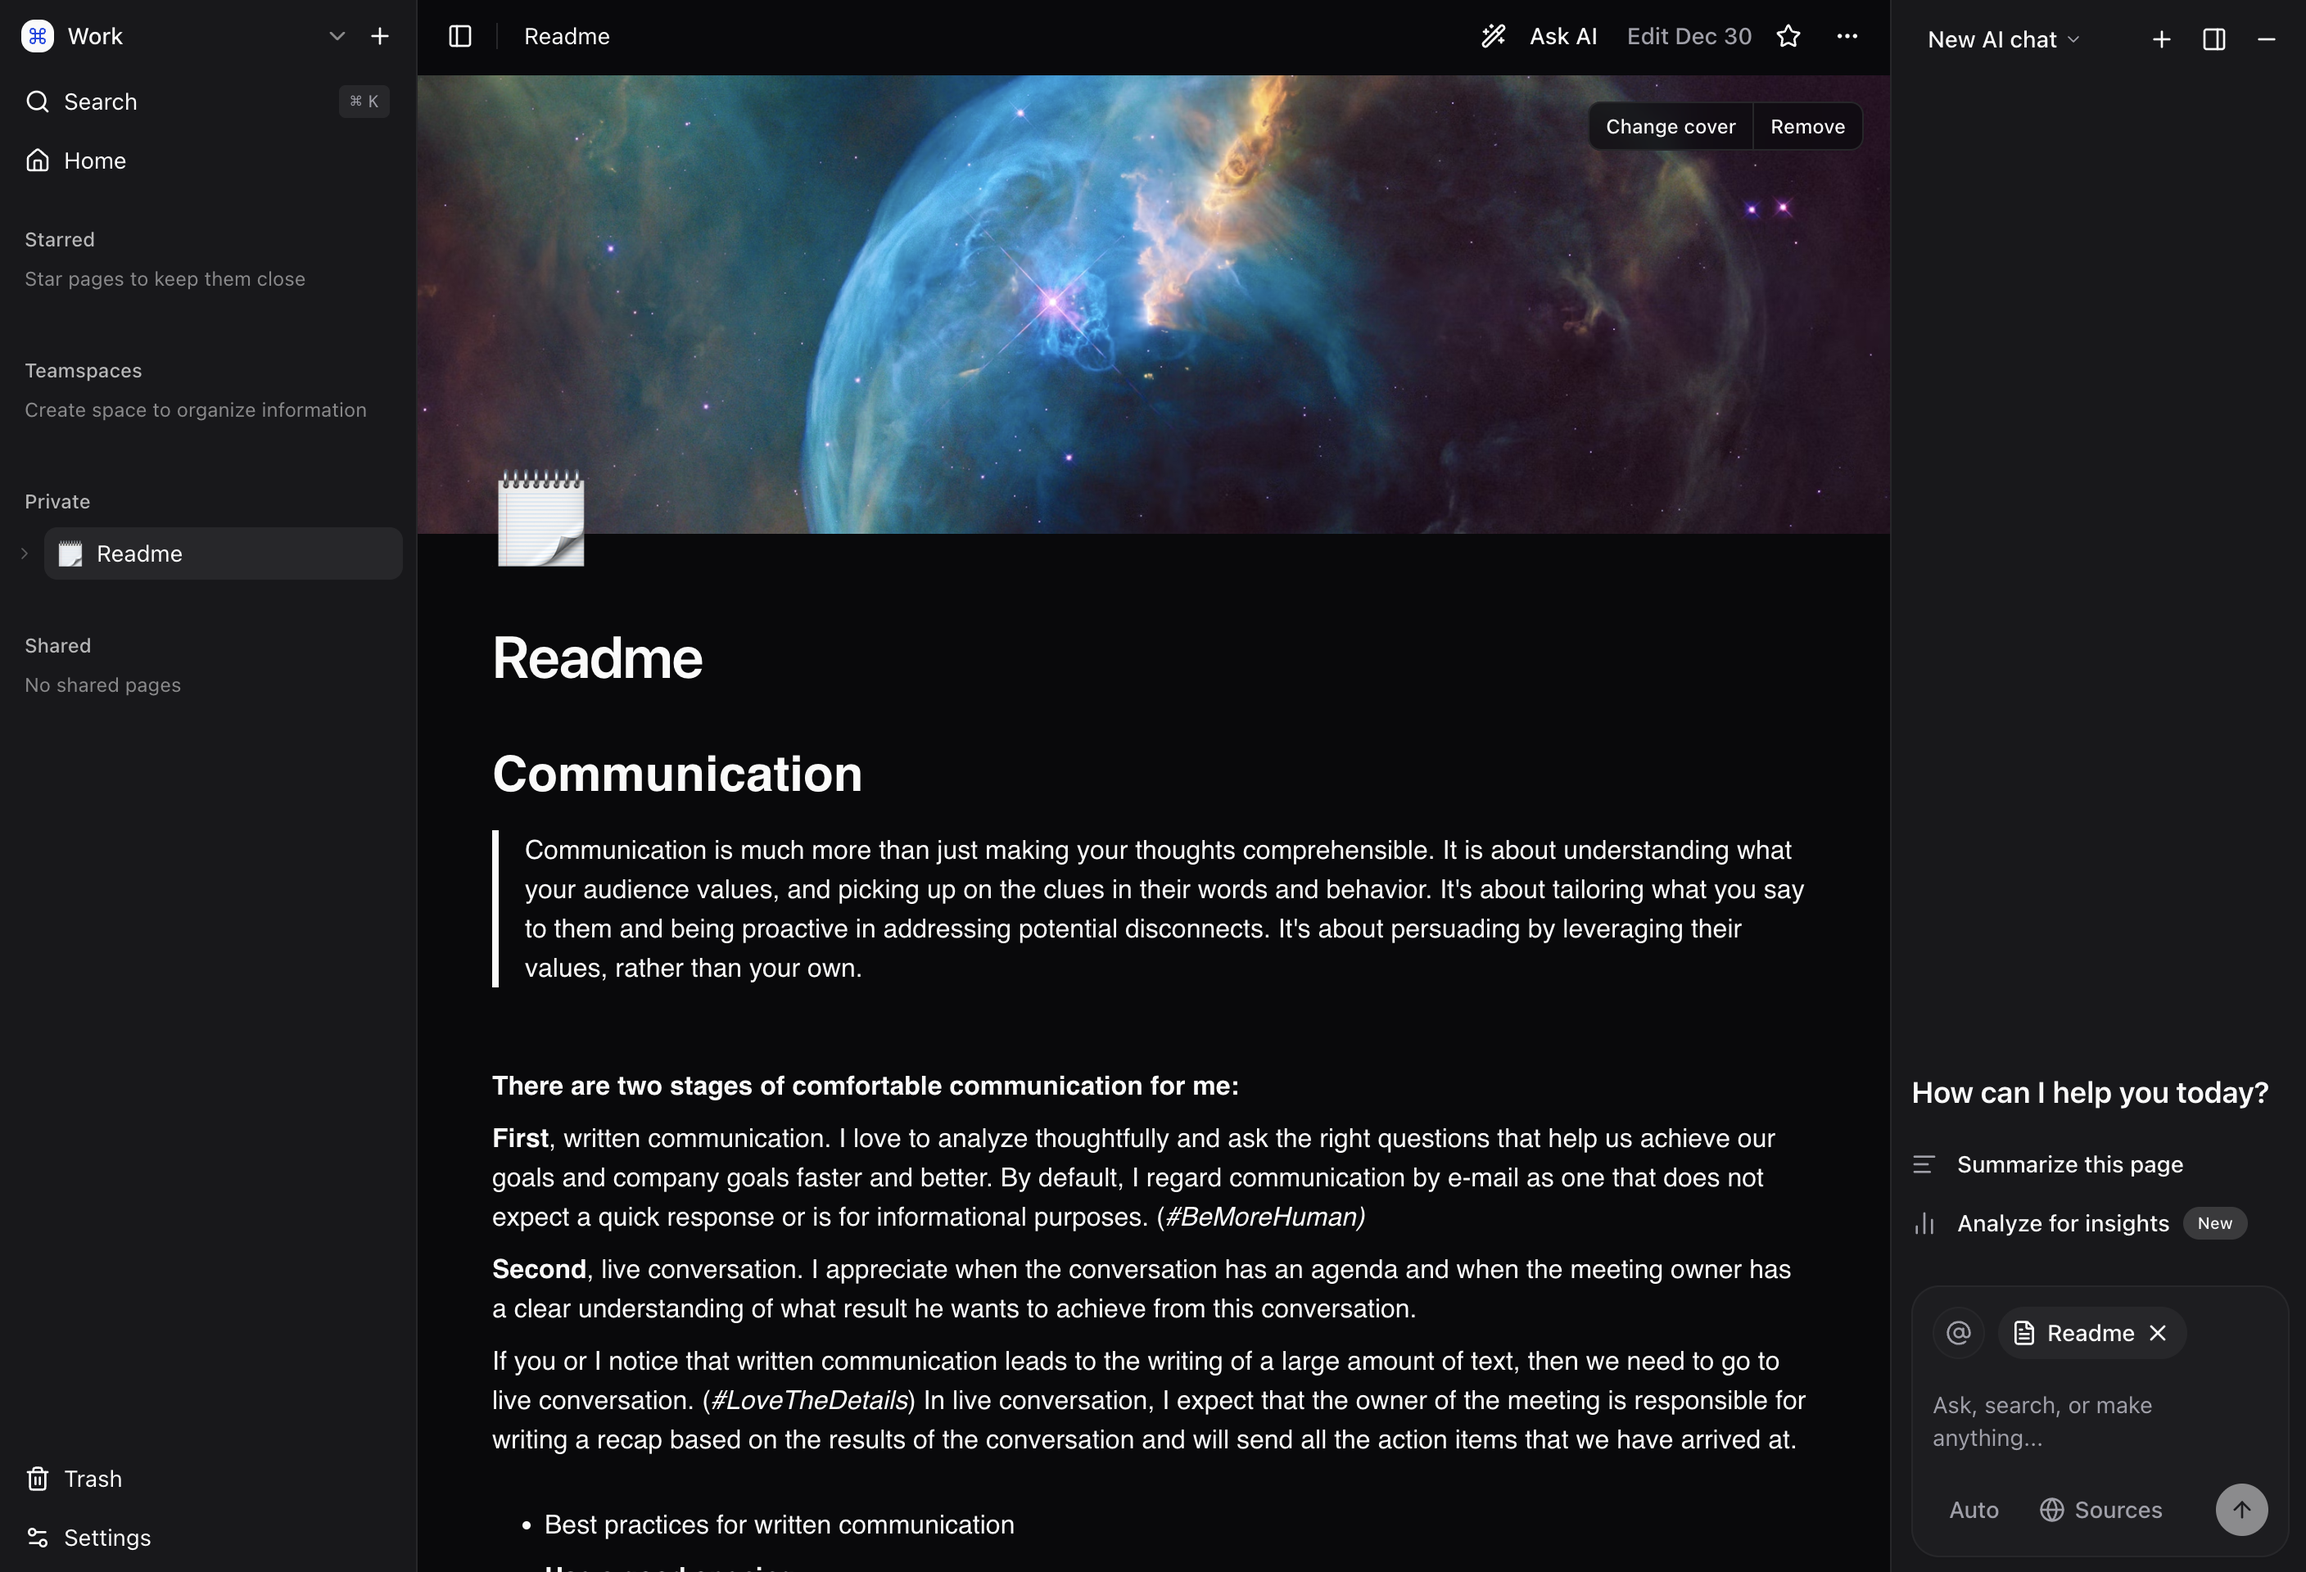
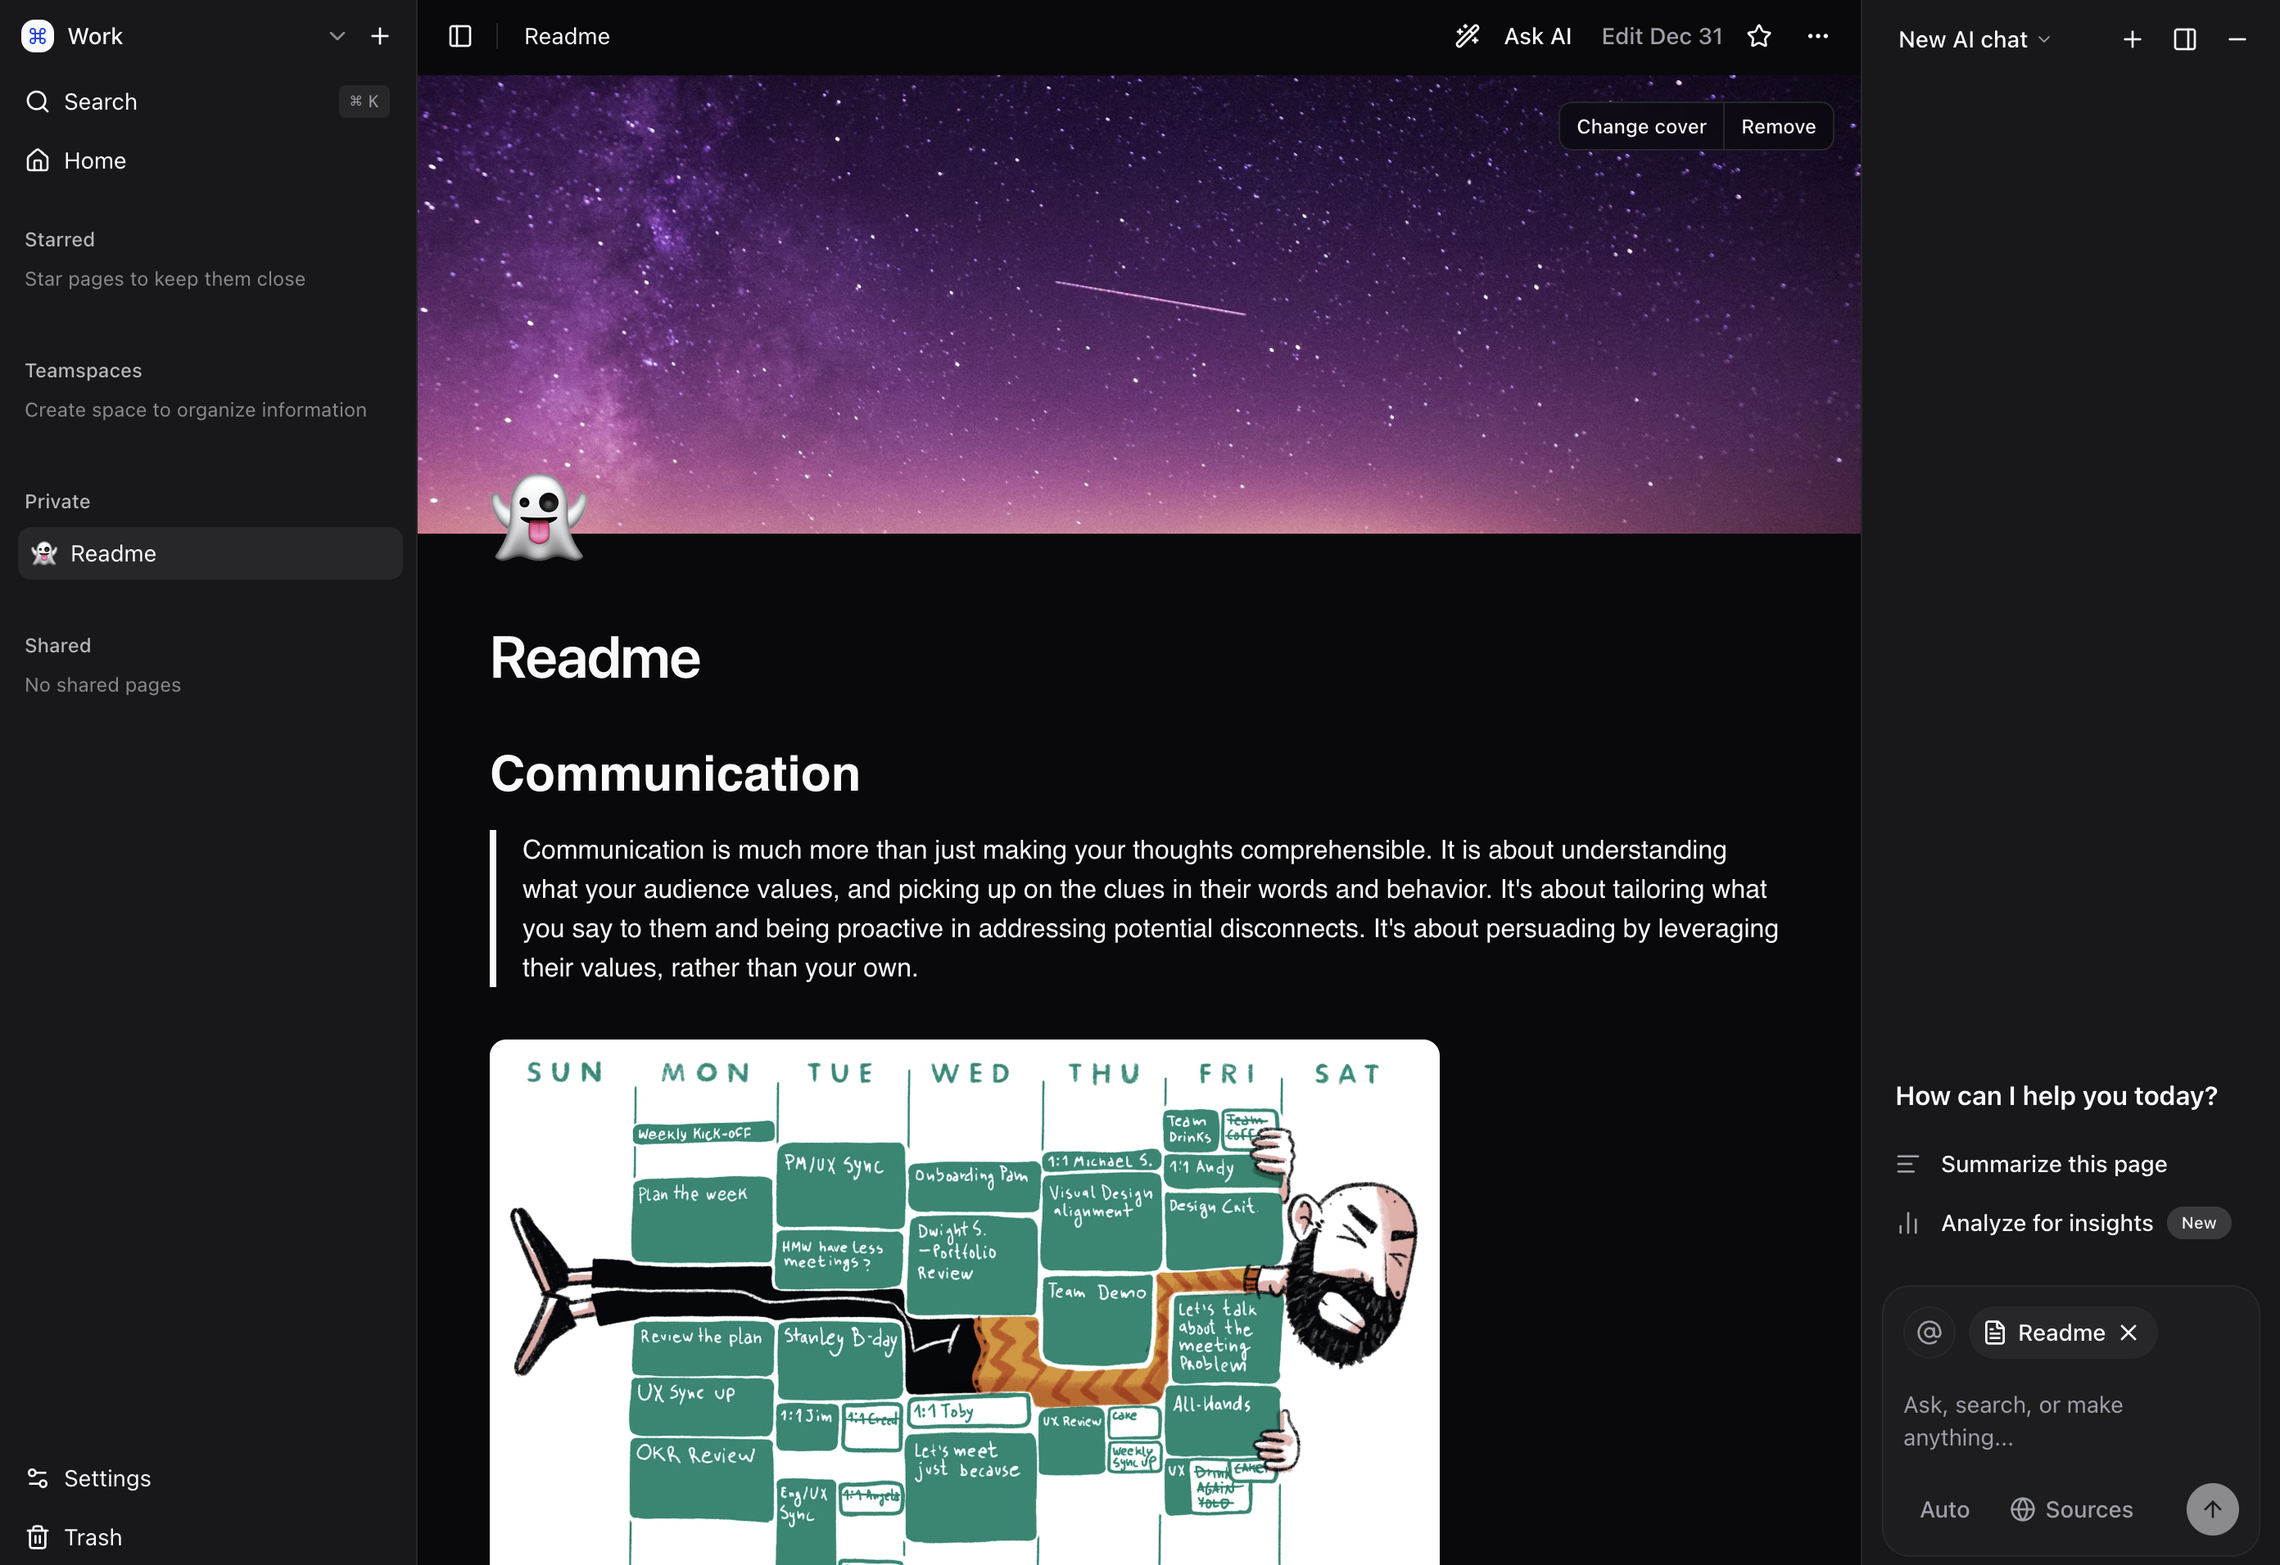
feat: add vercel blob for uploads

diff --git a/src/routeTree.gen.ts b/src/routeTree.gen.ts
@@ -12,6 +12,7 @@ import { Route as rootRouteImport } from './routes/__root'
 import { Route as IndexRouteImport } from './routes/index'
 import { Route as ShareDocumentIdRouteImport } from './routes/share.$documentId'
 import { Route as DocumentsDocumentIdRouteImport } from './routes/documents.$documentId'
+import { Route as ApiUploadRouteImport } from './routes/api/upload'
 import { Route as ApiChatRouteImport } from './routes/api/chat'
 import { Route as ApiAuthSplatRouteImport } from './routes/api/auth/$'
 
@@ -30,6 +31,11 @@ const DocumentsDocumentIdRoute = DocumentsDocumentIdRouteImport.update({
   path: '/documents/$documentId',
   getParentRoute: () => rootRouteImport,
 } as any)
+const ApiUploadRoute = ApiUploadRouteImport.update({
+  id: '/api/upload',
+  path: '/api/upload',
+  getParentRoute: () => rootRouteImport,
+} as any)
 const ApiChatRoute = ApiChatRouteImport.update({
   id: '/api/chat',
   path: '/api/chat',
@@ -44,6 +50,7 @@ const ApiAuthSplatRoute = ApiAuthSplatRouteImport.update({
 export interface FileRoutesByFullPath {
   '/': typeof IndexRoute
   '/api/chat': typeof ApiChatRoute
+  '/api/upload': typeof ApiUploadRoute
   '/documents/$documentId': typeof DocumentsDocumentIdRoute
   '/share/$documentId': typeof ShareDocumentIdRoute
   '/api/auth/$': typeof ApiAuthSplatRoute
@@ -51,6 +58,7 @@ export interface FileRoutesByFullPath {
 export interface FileRoutesByTo {
   '/': typeof IndexRoute
   '/api/chat': typeof ApiChatRoute
+  '/api/upload': typeof ApiUploadRoute
   '/documents/$documentId': typeof DocumentsDocumentIdRoute
   '/share/$documentId': typeof ShareDocumentIdRoute
   '/api/auth/$': typeof ApiAuthSplatRoute
@@ -59,6 +67,7 @@ export interface FileRoutesById {
   __root__: typeof rootRouteImport
   '/': typeof IndexRoute
   '/api/chat': typeof ApiChatRoute
+  '/api/upload': typeof ApiUploadRoute
   '/documents/$documentId': typeof DocumentsDocumentIdRoute
   '/share/$documentId': typeof ShareDocumentIdRoute
   '/api/auth/$': typeof ApiAuthSplatRoute
@@ -68,6 +77,7 @@ export interface FileRouteTypes {
   fullPaths:
     | '/'
     | '/api/chat'
+    | '/api/upload'
     | '/documents/$documentId'
     | '/share/$documentId'
     | '/api/auth/$'
@@ -75,6 +85,7 @@ export interface FileRouteTypes {
   to:
     | '/'
     | '/api/chat'
+    | '/api/upload'
     | '/documents/$documentId'
     | '/share/$documentId'
     | '/api/auth/$'
@@ -82,6 +93,7 @@ export interface FileRouteTypes {
     | '__root__'
     | '/'
     | '/api/chat'
+    | '/api/upload'
     | '/documents/$documentId'
     | '/share/$documentId'
     | '/api/auth/$'
@@ -90,6 +102,7 @@ export interface FileRouteTypes {
 export interface RootRouteChildren {
   IndexRoute: typeof IndexRoute
   ApiChatRoute: typeof ApiChatRoute
+  ApiUploadRoute: typeof ApiUploadRoute
   DocumentsDocumentIdRoute: typeof DocumentsDocumentIdRoute
   ShareDocumentIdRoute: typeof ShareDocumentIdRoute
   ApiAuthSplatRoute: typeof ApiAuthSplatRoute
@@ -118,6 +131,13 @@ declare module '@tanstack/react-router' {
       preLoaderRoute: typeof DocumentsDocumentIdRouteImport
       parentRoute: typeof rootRouteImport
     }
+    '/api/upload': {
+      id: '/api/upload'
+      path: '/api/upload'
+      fullPath: '/api/upload'
+      preLoaderRoute: typeof ApiUploadRouteImport
+      parentRoute: typeof rootRouteImport
+    }
     '/api/chat': {
       id: '/api/chat'
       path: '/api/chat'
@@ -138,6 +158,7 @@ declare module '@tanstack/react-router' {
 const rootRouteChildren: RootRouteChildren = {
   IndexRoute: IndexRoute,
   ApiChatRoute: ApiChatRoute,
+  ApiUploadRoute: ApiUploadRoute,
   DocumentsDocumentIdRoute: DocumentsDocumentIdRoute,
   ShareDocumentIdRoute: ShareDocumentIdRoute,
   ApiAuthSplatRoute: ApiAuthSplatRoute,

diff --git a/src/tiptap/extensions/image/image-uploader-extension.ts b/src/tiptap/extensions/image/image-uploader-extension.ts
@@ -1,10 +1,7 @@
 import { type Editor, Extension } from "@tiptap/core";
 import FileHandler from "@tiptap/extension-file-handler";
-import {
-	showToast,
-	updateNodeByPos,
-	uploadWithProgress,
-} from "@/tiptap/helpers";
+import { buildBlobPathname } from "@/lib/blob";
+import { showToast, updateNodeByPos } from "@/tiptap/helpers";
 import type {
 	ImageUploaderExtensionOptions,
 	ImageUploaderExtensionStorage,
@@ -86,12 +83,7 @@ export const ImageUploaderExtension = Extension.create<
 				updateExisting?: boolean,
 				pos?: number,
 			) => {
-				const {
-					imgUploadUrl,
-					imgUploadResponseKey,
-					allowedMimeTypes,
-					maxFileSize,
-				} = this.options;
+				const { imgUploadUrl, allowedMimeTypes, maxFileSize } = this.options;
 
 				if (!file) return;
 
@@ -261,12 +253,26 @@ export const ImageUploaderExtension = Extension.create<
 							},
 						});
 
-						const response = await uploadWithProgress({
+						const { upload } = await import("@vercel/blob/client");
+						const blob = await upload(
+							buildBlobPathname({ kind: "editor", fileName: file.name }),
 							file,
-							url: imgUploadUrl,
-							onProgress: handleProgress,
-							signal: abortController.signal,
-						});
+							{
+								access: "public",
+								handleUploadUrl: imgUploadUrl,
+								multipart: file.size > 4.5 * 1024 * 1024,
+								abortSignal: abortController.signal,
+								onUploadProgress: ({ percentage }) => {
+									const shouldContinue = handleProgress(
+										Math.round(percentage),
+										file,
+									);
+									if (!shouldContinue) {
+										abortController.abort();
+									}
+								},
+							},
+						);
 
 						// Check if cancelled after upload completes
 						const token = uploadCancelTokens.get(id);
@@ -275,17 +281,7 @@ export const ImageUploaderExtension = Extension.create<
 							return;
 						}
 
-						if (!imgUploadResponseKey)
-							throw new Error(
-								"You need to specify a key for the upload response, using the parameter *imgUploadResponseKey* of editorOptions !",
-							);
-
-						const uploadedUrl =
-							response?.[imgUploadResponseKey as keyof typeof response];
-
-						if (!uploadedUrl) throw new Error("No URL returned from server");
-
-						handleSuccess(uploadedUrl);
+						handleSuccess(blob.url);
 					} catch (error: unknown) {
 						// Check if error was due to cancellation
 						if (error instanceof Error) {

diff --git a/src/routes/api/upload.ts b/src/routes/api/upload.ts
@@ -1,0 +1,87 @@
+import { createFileRoute } from "@tanstack/react-router";
+import { type HandleUploadBody, handleUpload } from "@vercel/blob/client";
+import { getToken } from "@/lib/auth-server";
+import { isAllowedBlobPathname, MAX_BLOB_UPLOAD_BYTES } from "@/lib/blob";
+
+export const Route = createFileRoute("/api/upload")({
+	server: {
+		handlers: {
+			POST: async ({ request }) => {
+				const blobToken = process.env.BLOB_READ_WRITE_TOKEN;
+				if (!blobToken) {
+					return new Response(
+						JSON.stringify({
+							error: "BLOB_READ_WRITE_TOKEN not configured",
+						}),
+						{
+							status: 500,
+							headers: { "Content-Type": "application/json" },
+						},
+					);
+				}
+
+				const token = await getToken();
+				if (!token) {
+					return new Response(
+						JSON.stringify({
+							error: "Unauthorized",
+						}),
+						{
+							status: 401,
+							headers: { "Content-Type": "application/json" },
+						},
+					);
+				}
+
+				let body: HandleUploadBody;
+				try {
+					body = (await request.json()) as HandleUploadBody;
+				} catch {
+					return new Response(
+						JSON.stringify({
+							error:
+								"Invalid request body (expected JSON). Use Vercel Blob client uploads.",
+						}),
+						{
+							status: 400,
+							headers: { "Content-Type": "application/json" },
+						},
+					);
+				}
+
+				try {
+					const jsonResponse = await handleUpload({
+						token: blobToken,
+						request,
+						body,
+						onBeforeGenerateToken: async (pathname) => {
+							if (!isAllowedBlobPathname(pathname)) {
+								throw new Error("Invalid upload pathname");
+							}
+							return {
+								allowedContentTypes: ["image/*"],
+								addRandomSuffix: true,
+								maximumSizeInBytes: MAX_BLOB_UPLOAD_BYTES,
+							};
+						},
+					});
+
+					return new Response(JSON.stringify(jsonResponse), {
+						status: 200,
+						headers: { "Content-Type": "application/json" },
+					});
+				} catch (error) {
+					return new Response(
+						JSON.stringify({
+							error: error instanceof Error ? error.message : "Upload failed",
+						}),
+						{
+							status: 400,
+							headers: { "Content-Type": "application/json" },
+						},
+					);
+				}
+			},
+		},
+	},
+});

diff --git a/src/components/document/cover-image-modal.tsx b/src/components/document/cover-image-modal.tsx
@@ -1,8 +1,10 @@
+import { upload } from "@vercel/blob/client";
 import { useMutation } from "convex/react";
 import { Image as ImageIcon, Link as LinkIcon, Upload } from "lucide-react";
 import { useEffect, useRef, useState } from "react";
 import { Button } from "@/components/ui/button";
 import { Input } from "@/components/ui/input";
+import { buildBlobPathname } from "@/lib/blob";
 import {
 	COVER_GALLERY_SWATCHES,
 	CURATED_COVER_SECTIONS,
@@ -48,13 +50,18 @@ export function CoverImageModal({
 		}
 	}, [open]);
 
-	const readFileAsDataUrl = (file: File) =>
-		new Promise<string>((resolve, reject) => {
-			const reader = new FileReader();
-			reader.onloadend = () => resolve(reader.result as string);
-			reader.onerror = () => reject(new Error("Failed to read image file"));
-			reader.readAsDataURL(file);
-		});
+	const uploadCoverImage = async (file: File) => {
+		const blob = await upload(
+			buildBlobPathname({ kind: "cover", fileName: file.name }),
+			file,
+			{
+				access: "public",
+				handleUploadUrl: "/api/upload",
+			},
+		);
+
+		return blob.url;
+	};
 
 	const handleSelectCover = async (value: string) => {
 		setIsSubmitting(true);
@@ -83,10 +90,10 @@ export function CoverImageModal({
 
 		setIsSubmitting(true);
 		try {
-			const dataUrl = await readFileAsDataUrl(file);
+			const url = await uploadCoverImage(file);
 			await update({
 				id: documentId,
-				coverImage: dataUrl,
+				coverImage: url,
 			});
 			onClose();
 		} catch (error) {

diff --git a/src/lib/blob.ts b/src/lib/blob.ts
@@ -1,0 +1,38 @@
+export type BlobUploadKind = "cover" | "editor";
+
+export const MAX_BLOB_UPLOAD_BYTES = 10 * 1024 * 1024;
+
+const sanitizePathPart = (value: string) => {
+	return value
+		.trim()
+		.toLowerCase()
+		.replaceAll(/[^a-z0-9._-]+/g, "-")
+		.replaceAll(/-+/g, "-")
+		.replaceAll(/^\.+/g, "")
+		.replaceAll(/^[-_.]+|[-_.]+$/g, "")
+		.slice(0, 80);
+};
+
+export const buildBlobPathname = ({
+	kind,
+	fileName,
+}: {
+	kind: BlobUploadKind;
+	fileName: string;
+}) => {
+	const safeName = sanitizePathPart(fileName) || "upload";
+	return `uploads/${kind}/${safeName}`;
+};
+
+export const isAllowedBlobPathname = (pathname: string) => {
+	if (!pathname) return false;
+	if (pathname.startsWith("/")) return false;
+	if (pathname.includes("..")) return false;
+	if (pathname.length > 512) return false;
+	if (
+		!pathname.startsWith("uploads/editor/") &&
+		!pathname.startsWith("uploads/cover/")
+	)
+		return false;
+	return /^[a-z0-9/_\-.]+$/i.test(pathname);
+};

diff --git a/src/routes/documents.$documentId.tsx b/src/routes/documents.$documentId.tsx
@@ -509,6 +509,7 @@ function DocumentEditor() {
 				editorOptions={{
 					content: initialContentRef.current ?? EMPTY_DOCUMENT,
 					editable: !document.isArchived,
+					imgUploadUrl: "/api/upload",
 				}}
 				extraExtensions={extraExtensionsRef.current}
 			/>

diff --git a/README.md b/README.md
@@ -32,6 +32,9 @@
 - [Better Auth](https://www.better-auth.com/)
   - Secure authentication with [Better Auth for Convex](https://labs.convex.dev/better-auth)
   - GitHub OAuth integration
+- [Vercel Blob](https://vercel.com/docs/vercel-blob)
+  - Scalable file storage for images, documents, and other media
+  - Built on Amazon S3 with 99.99% availability and global CDN distribution
 - [Shadcn/UI](https://ui.shadcn.com)
   - Styling with [Tailwind CSS](https://tailwindcss.com)
   - Component primitives from [Radix UI](https://radix-ui.com) for accessibility and flexibility
